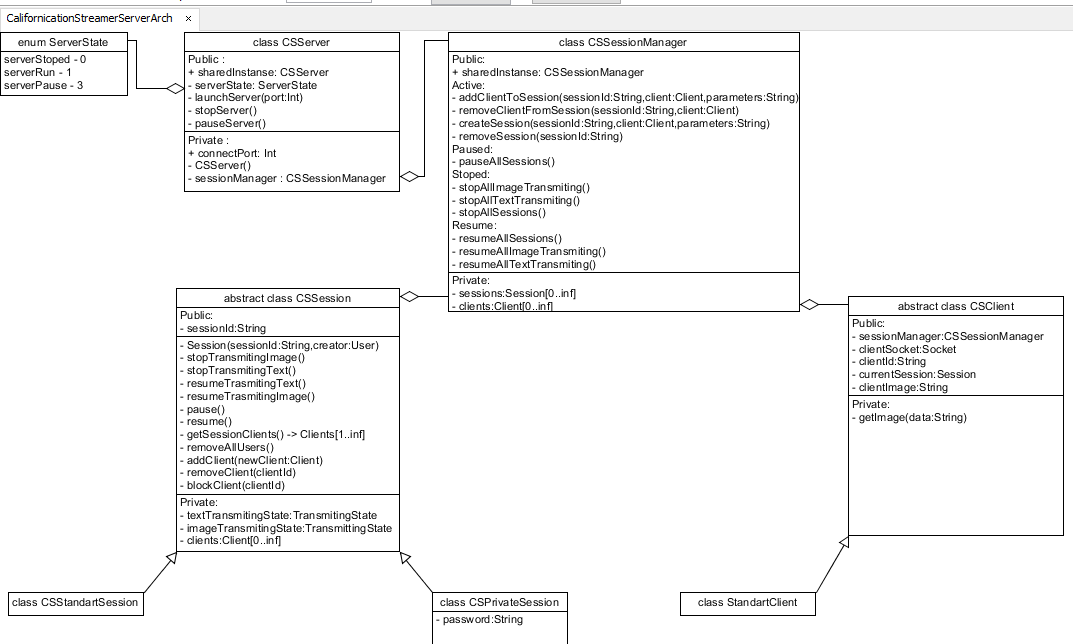
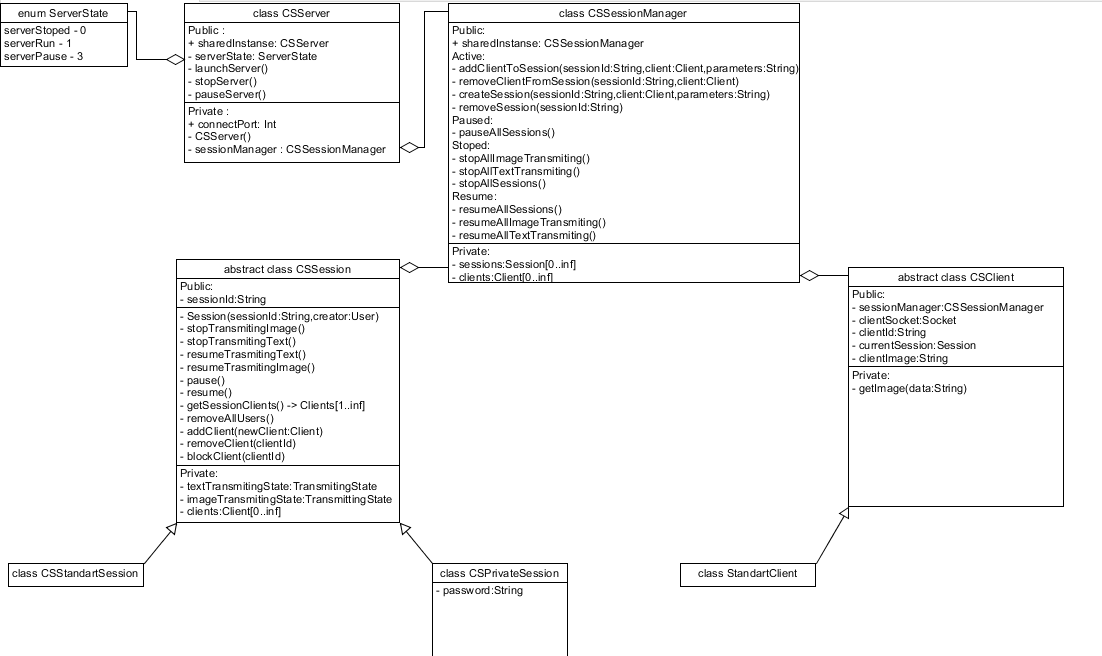
Read and write in socket connection (parallel)
Change client code for local tests

diff --git a/CalifornicationServer/src/com/velrock/Server/Client/CSClientWriter.java b/CalifornicationServer/src/com/velrock/Server/Client/CSClientWriter.java
@@ -1,0 +1,45 @@
+package com.velrock.Server.Client;
+
+import java.io.*;
+
+/**
+ * Created by brigh on 28.06.2016.
+ */
+public class CSClientWriter extends Thread {
+    PrintWriter writer;
+    Boolean isRun;
+    CSClient client;
+
+    public CSClientWriter(OutputStream outputStream,CSClient client) {
+        writer = new PrintWriter(outputStream, true);
+        this.isRun = false;
+        this.client = client;
+    }
+
+    @Override
+    public void run() {
+        super.run();
+        this.isRun = false;
+        while(true) {
+            if(this.isRun == false) {
+                continue;
+            }else {
+//                BufferedReader buffer=new BufferedReader(new InputStreamReader(System.in));
+//                try {
+//                    String line=buffer.readLine();
+//                    this.writer.print(line + "\n");
+//                } catch (IOException e) {
+//                    try {
+//                        client.clientSocket.close();
+//                        return;
+//                    } catch (IOException e1) {
+//                        e1.printStackTrace();
+//                    }
+//                }
+//                this.writer.print("ResponseOne\n");
+//                this.writer.flush();
+                //System.out.println("Write");
+            }
+        }
+    }
+}

diff --git a/CalifornicationClient/src/com/velrock/Main.java b/CalifornicationClient/src/com/velrock/Main.java
@@ -1,7 +1,6 @@
 package com.velrock;
 
-import java.io.IOException;
-import java.io.OutputStream;
+import java.io.*;
 import java.net.InetAddress;
 import java.net.Socket;
 import java.net.UnknownHostException;
@@ -13,14 +12,18 @@ public class Main {
             InetAddress adr = InetAddress.getByName(null);
             Socket testSocket = new Socket(adr,9656);
             OutputStream output = testSocket.getOutputStream();
+            BufferedReader reader =  new BufferedReader(new InputStreamReader(testSocket.getInputStream()));
+            //System.out.println(reader.readLine());
+            //System.out.println(reader.readLine());
             long time = System.currentTimeMillis();
-            output.write("jdevnotes multithreaded server runs\n".getBytes());
-            Thread.currentThread().sleep(50000);
+            BufferedReader buffer=new BufferedReader(new InputStreamReader(System.in));
+            while(true) {
+                String line=buffer.readLine();
+                output.write((line + "\n").getBytes());
+            }
         } catch (UnknownHostException e) {
             e.printStackTrace();
         } catch (IOException e) {
-            e.printStackTrace();
-        } catch (InterruptedException e) {
             e.printStackTrace();
         }
 

diff --git a/CalifornicationServer/src/com/velrock/Server/Client/CSClient.java b/CalifornicationServer/src/com/velrock/Server/Client/CSClient.java
@@ -7,25 +7,32 @@ import java.io.BufferedReader;
 import java.io.IOException;
 import java.io.InputStreamReader;
 import java.net.Socket;
+import java.util.concurrent.Future;
+import java.util.concurrent.FutureTask;
 
 /**
  * Created by brigh on 26.06.2016.
  */
-public abstract class CSClient extends Thread {
+public abstract class CSClient {
     public Socket clientSocket;
     public String clientId;
     public CSSession currentSession;
     public String clientImage;
+    public CSClientWriter clientWriter;
+    public CSClientReader clientReader;
 
     public CSClient(Socket clientSocket,String clientId) {
         this.clientSocket = clientSocket;
         this.clientId = clientId;
         try {
-            BufferedReader reader = new BufferedReader(new InputStreamReader(this.clientSocket.getInputStream()));
-            System.out.println(reader.readLine());
+            clientReader = new CSClientReader(this.clientSocket.getInputStream(),this);
+            clientWriter = new CSClientWriter(this.clientSocket.getOutputStream(),this);
+            clientReader.start();
+            clientWriter.start();
         } catch (IOException e) {
             e.printStackTrace();
         }
+
     }
 
     private String getImage(String data) {return null;}

diff --git a/CalifornicationServer/src/com/velrock/Server/Client/CSClientReader.java b/CalifornicationServer/src/com/velrock/Server/Client/CSClientReader.java
@@ -1,0 +1,44 @@
+package com.velrock.Server.Client;
+
+import com.velrock.Server.CSServer;
+
+import java.io.*;
+
+/**
+ * Created by brigh on 28.06.2016.
+ */
+public class CSClientReader extends Thread {
+    BufferedReader reader;
+    Boolean isRun;
+    CSClient client;
+
+    public CSClientReader(InputStream inputStream,CSClient client) {
+        this.reader =  new BufferedReader(new InputStreamReader(inputStream));
+        this.isRun = false;
+        this.client = client;
+    }
+
+    @Override
+    public void run() {
+        super.run();
+        this.isRun = true;
+        while(true) {
+            if(this.isRun == false) {
+                return;
+            }else {
+                String out = null;
+                try {
+                    out = reader.readLine();
+                } catch (IOException e) {
+                    try {
+                        client.clientSocket.close();
+                        return;
+                    } catch (IOException e1) {
+                        e1.printStackTrace();
+                    }
+                }
+                System.out.println(out);
+            }
+        }
+    }
+}

diff --git a/CalifornicationServer/src/com/velrock/Server/CSServer.java b/CalifornicationServer/src/com/velrock/Server/CSServer.java
@@ -10,7 +10,7 @@ import java.net.Socket;
 /**
  * Created by brigh on 26.06.2016.
  */
-public class CSServer implements Runnable {
+public class CSServer extends Thread {
     public static final int serverPort = 9656;
     //singleton instance
     public static CSServer sharedInstance  = new CSServer();
@@ -24,10 +24,11 @@ public class CSServer implements Runnable {
 
     }
 
+
     //work with state server
     public void launchServer() {
         serverState = CSServerState.serverRun;
-        this.run();
+        this.start();
     }
     public void pauseServer() {
         serverState = CSServerState.serverPause;
